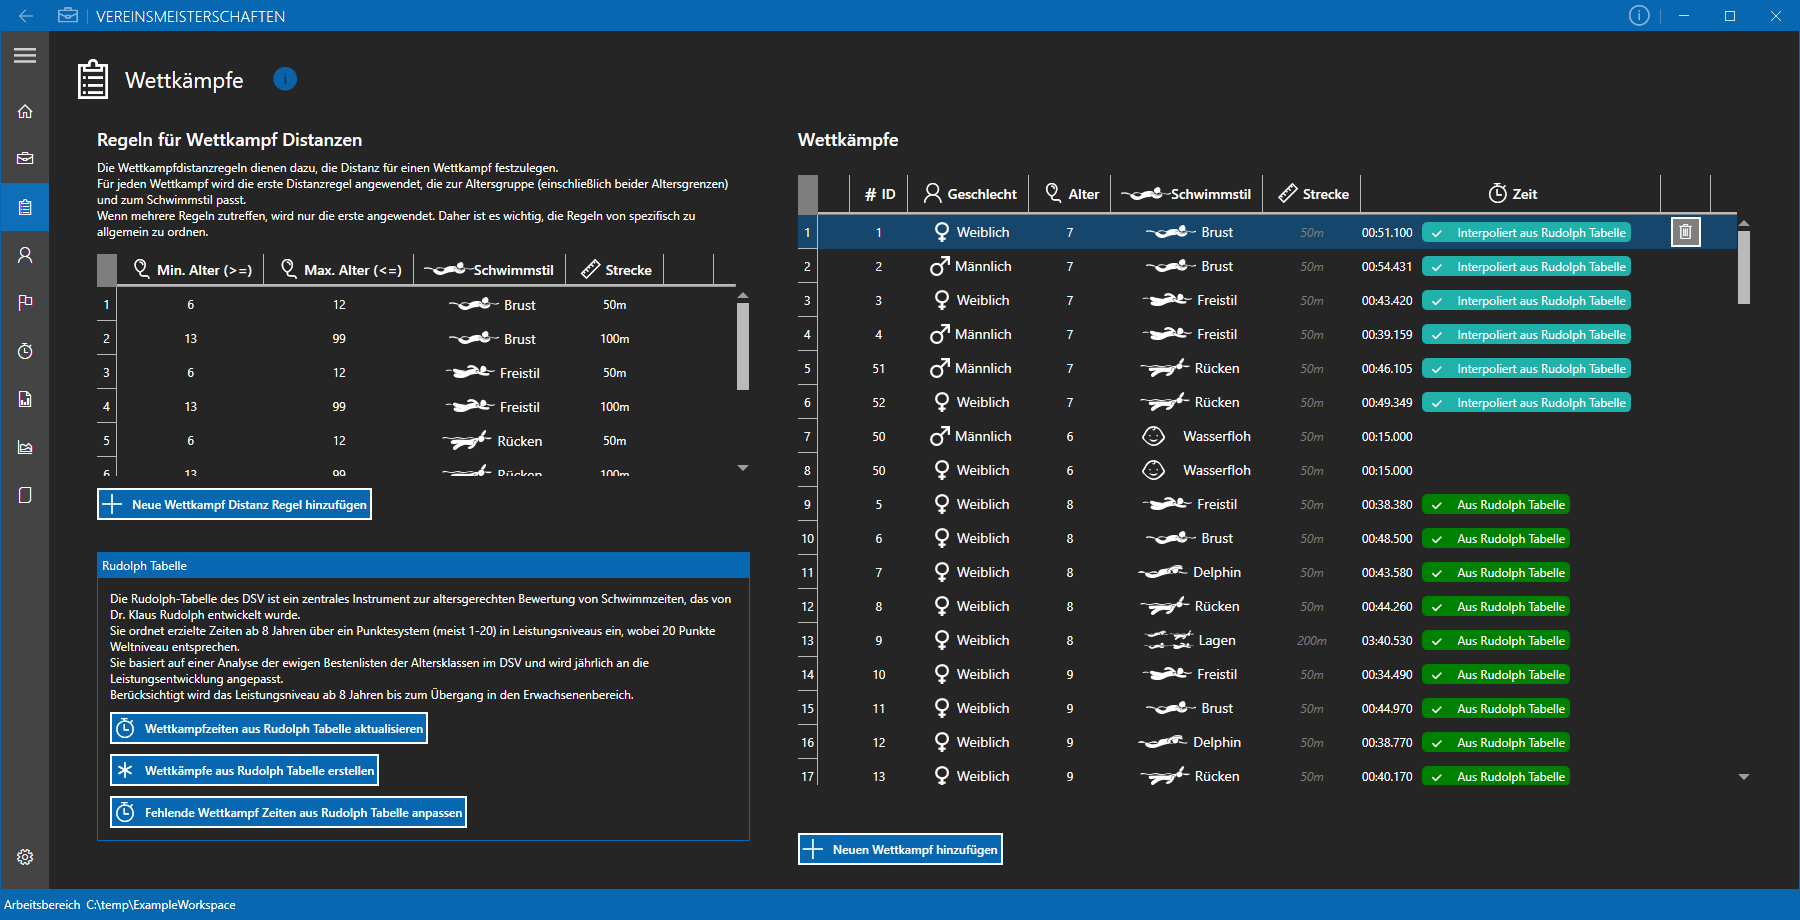
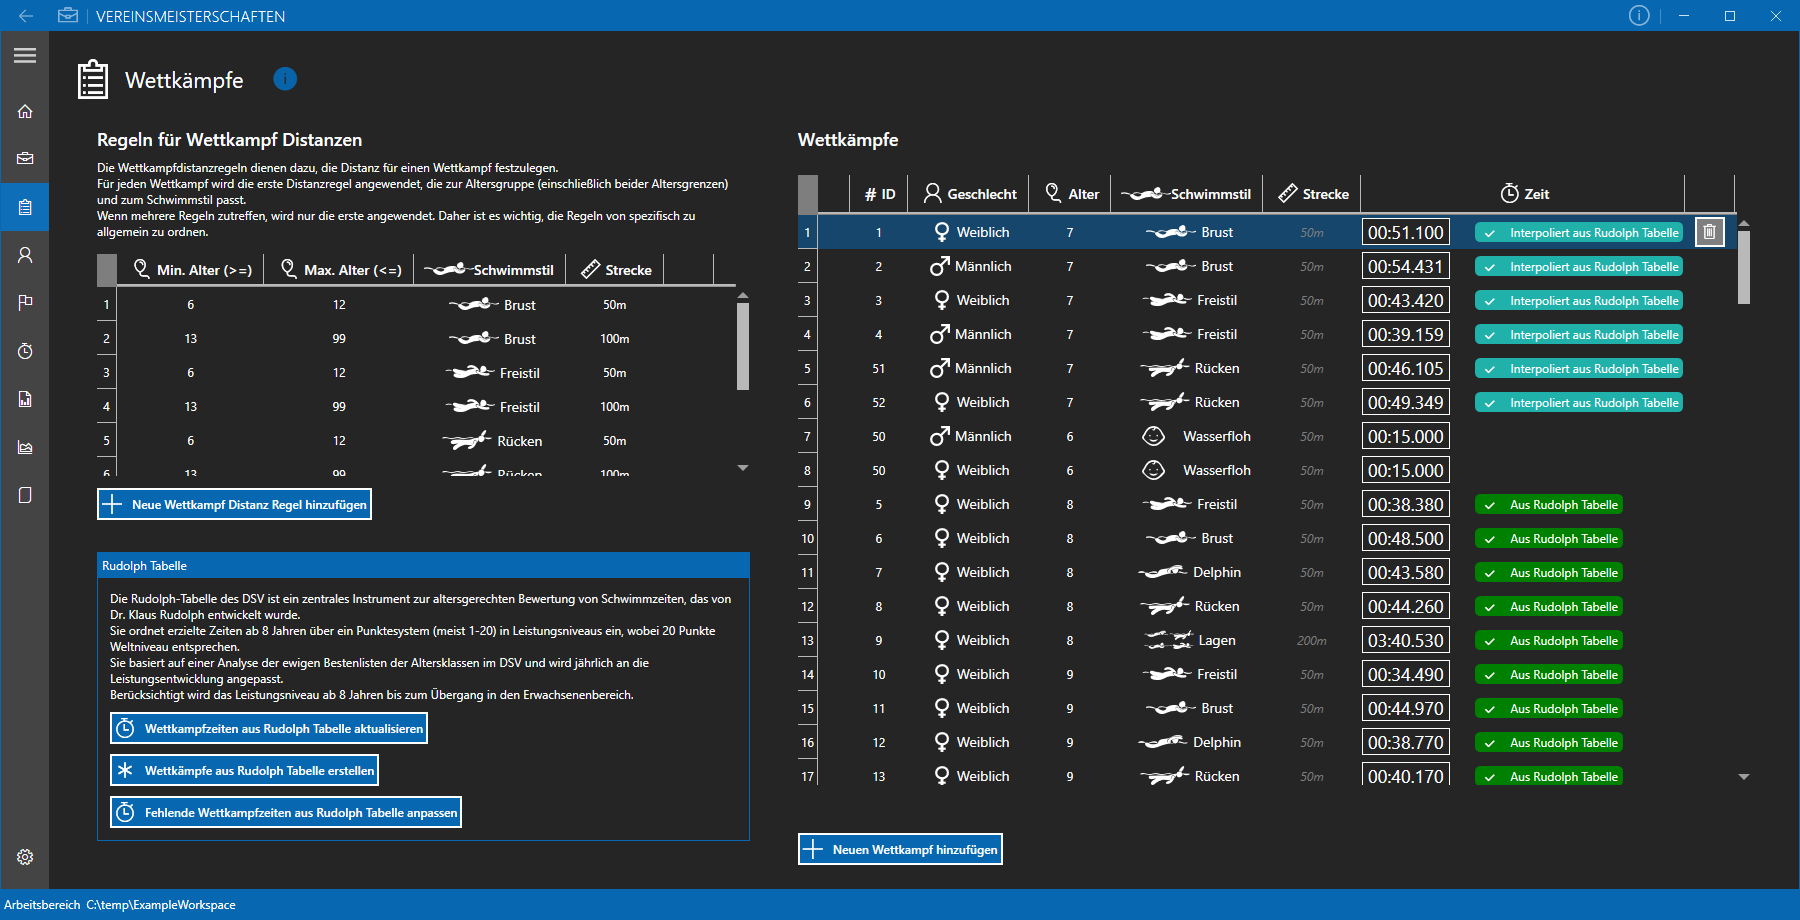
Support Enter key for TimeSpanControl to exit focused mode, always use TimeSpanControl on CompetitionPage (not only for cell editing)

Changed region(s): [[0.7467, 0.213, 0.9644, 0.8522], [0.1556, 0.8826, 0.28, 0.913], [0.8089, 0.1826, 0.8711, 0.213]]

diff --git a/Vereinsmeisterschaften/Views/CompetitionPage.xaml b/Vereinsmeisterschaften/Views/CompetitionPage.xaml
@@ -423,7 +423,7 @@
                 </DataGridTemplateColumn>
 
                 <!-- Best Time -->
-                <DataGridTemplateColumn Width="300" SortMemberPath="BestTime">
+                <DataGridTemplateColumn Width="320" SortMemberPath="BestTime">
                     <DataGridTemplateColumn.Header>
                         <StackPanel Orientation="Horizontal">
                             <controls:FontIcon Glyph="&#xE916;" Margin="5"/>
@@ -433,8 +433,8 @@
                     <DataGridTemplateColumn.CellTemplate>
                         <DataTemplate>
                             <StackPanel Orientation="Horizontal" HorizontalAlignment="Left">
-                                <TextBlock Text="{Binding BestTime, StringFormat='mm\\:ss\\.fff'}" HorizontalAlignment="Center" VerticalAlignment="Center"/>
-                                <Border Margin="10,0,0,0" CornerRadius="5" VerticalAlignment="Center"
+                                <userControls:TimeSpanControl Value="{Binding BestTime, UpdateSourceTrigger=PropertyChanged}" HorizontalAlignment="Center" HoursVisible="False" EditMode="EditSeconds" ToolTip="mm:ss.fff"/>
+                                <Border Margin="2,0,0,0" CornerRadius="5" VerticalAlignment="Center"
                                         Background="{DynamicResource BrushTimeFromRudolphTable}"
                                         Visibility="{Binding IsTimeFromRudolphTable, Converter={StaticResource BooleanToVisibilityConverter}}">
                                     <StackPanel Orientation="Horizontal">
@@ -444,7 +444,7 @@
                                                    Foreground="{DynamicResource MahApps.Brushes.IdealForeground}"/>
                                     </StackPanel>
                                 </Border>
-                                <Border Margin="10,0,0,0" CornerRadius="5" VerticalAlignment="Center"
+                                <Border Margin="2,0,0,0" CornerRadius="5" VerticalAlignment="Center"
                                         Background="{DynamicResource BrushTimeInterpolatedFromRudolphTable}"
                                         Visibility="{Binding IsTimeInterpolatedFromRudolphTable, Converter={StaticResource BooleanToVisibilityConverter}}">
                                     <StackPanel Orientation="Horizontal">
@@ -457,11 +457,6 @@
                             </StackPanel>
                         </DataTemplate>
                     </DataGridTemplateColumn.CellTemplate>
-                    <DataGridTemplateColumn.CellEditingTemplate>
-                        <DataTemplate>
-                            <userControls:TimeSpanControl Value="{Binding BestTime, UpdateSourceTrigger=PropertyChanged}" HorizontalAlignment="Center" HoursVisible="False" EditMode="EditSeconds" ToolTip="mm:ss.fff"/>
-                        </DataTemplate>
-                    </DataGridTemplateColumn.CellEditingTemplate>
                 </DataGridTemplateColumn>
 
                 <!-- Remove Competition Button -->

diff --git a/Vereinsmeisterschaften/Controls/TimeSpanControl.xaml b/Vereinsmeisterschaften/Controls/TimeSpanControl.xaml
@@ -8,9 +8,8 @@
              d:DesignHeight="30" d:DesignWidth="130"
              Height="Auto" Width="Auto"
              Focusable="True"
-             IsTabStop="True"
-             PreviewKeyDown="UserControl_PreviewKeyDown">
-    
+             IsTabStop="True" PreviewKeyDown="UserControl_PreviewKeyDown">
+
     <UserControl.Resources>
         <Style x:Key="TimeSpanControlTextBlockStyle" TargetType="{x:Type TextBlock}">
             <Setter Property="VerticalAlignment" Value="Center"/>

diff --git a/Vereinsmeisterschaften/Controls/TimeSpanControl.xaml.cs b/Vereinsmeisterschaften/Controls/TimeSpanControl.xaml.cs
@@ -448,6 +448,11 @@ namespace Vereinsmeisterschaften.Controls
             {
                 decreaseDigit();
             }
+            else if (e.Key == Key.Enter)
+            {
+                EditMode = TimeSpanControlEditModes.None;
+                Keyboard.ClearFocus();
+            }
             e.Handled = true;
         }
 
